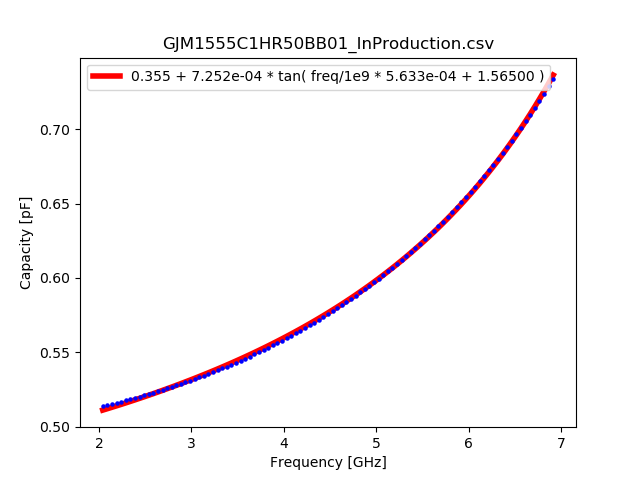
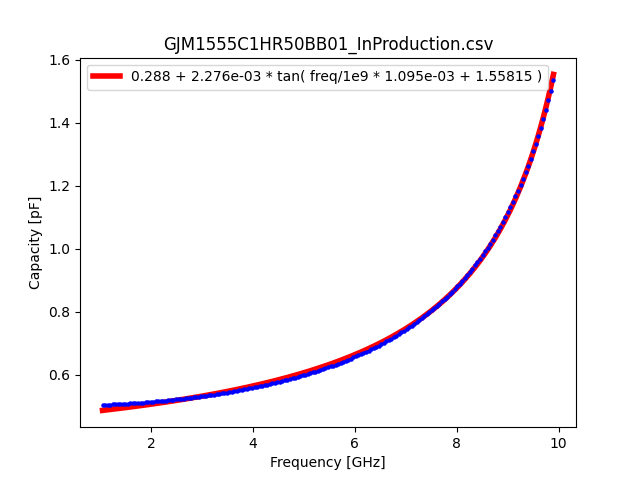
0.5pF

diff --git a/update_list.py b/update_list.py
@@ -20,7 +20,7 @@ if __name__ == "__main__":
         for csv in sorted(csvs):
 
             label = csv.split('csv/')[1]
-            cap, func, img_file = fitting(csv, 2e9, 7e9)
+            cap, func, img_file = fitting(csv, 1e9, 10e9)
 
             s = '| [{}]({}) | {:.1f}pF | `{}` |\n'.format(label, img_file, cap, func)
             f.write(s)

diff --git a/README.md b/README.md
@@ -5,31 +5,4 @@ note : use only simsurfing data
 
 | label | value | func |
 | ---   | ---   | --- |
-| [GJM1555C1H1R0BB01_InProduction.csv](img/GJM1555C1H1R0BB01_InProduction.png) | 1.0pF | `0.446 + 7.759e-03 * tan( freq/1e9 * 2.307e-03 + 1.55317 )` |
-| [GJM1555C1H1R1BB01_InProduction.csv](img/GJM1555C1H1R1BB01_InProduction.png) | 1.1pF | `0.508 + 7.715e-03 * tan( freq/1e9 * 2.033e-03 + 1.55464 )` |
-| [GJM1555C1H1R2BB01_InProduction.csv](img/GJM1555C1H1R2BB01_InProduction.png) | 1.2pF | `0.515 + 9.215e-03 * tan( freq/1e9 * 2.215e-03 + 1.55384 )` |
-| [GJM1555C1H1R3BB01_InProduction.csv](img/GJM1555C1H1R3BB01_InProduction.png) | 1.3pF | `0.516 + 1.648e-02 * tan( freq/1e9 * 3.652e-03 + 1.54382 )` |
-| [GJM1555C1H1R4BB01_InProduction.csv](img/GJM1555C1H1R4BB01_InProduction.png) | 1.4pF | `0.530 + 2.301e-02 * tan( freq/1e9 * 4.747e-03 + 1.53639 )` |
-| [GJM1555C1H1R5BB01_InProduction.csv](img/GJM1555C1H1R5BB01_InProduction.png) | 1.5pF | `0.500 + 5.973e-02 * tan( freq/1e9 * 1.150e-02 + 1.49012 )` |
-| [GJM1555C1H1R6BB01_InProduction.csv](img/GJM1555C1H1R6BB01_InProduction.png) | 1.6pF | `0.527 + 6.705e-02 * tan( freq/1e9 * 1.248e-02 + 1.48605 )` |
-| [GJM1555C1H1R7BB01_InProduction.csv](img/GJM1555C1H1R7BB01_InProduction.png) | 1.7pF | `0.737 + 6.072e-02 * tan( freq/1e9 * 1.229e-02 + 1.48867 )` |
-| [GJM1555C1H1R8BB01_InProduction.csv](img/GJM1555C1H1R8BB01_InProduction.png) | 1.8pF | `0.756 + 6.549e-02 * tan( freq/1e9 * 1.264e-02 + 1.48844 )` |
-| [GJM1555C1H1R9BB01_InProduction.csv](img/GJM1555C1H1R9BB01_InProduction.png) | 1.9pF | `0.774 + 6.380e-02 * tan( freq/1e9 * 1.179e-02 + 1.49580 )` |
-| [GJM1555C1H2R0BB01_InProduction.csv](img/GJM1555C1H2R0BB01_InProduction.png) | 2.0pF | `0.728 + 6.880e-02 * tan( freq/1e9 * 1.165e-02 + 1.49819 )` |
-| [GJM1555C1H2R1BB01_InProduction.csv](img/GJM1555C1H2R1BB01_InProduction.png) | 2.1pF | `0.754 + 8.282e-02 * tan( freq/1e9 * 1.360e-02 + 1.48801 )` |
-| [GJM1555C1H2R2BB01_InProduction.csv](img/GJM1555C1H2R2BB01_InProduction.png) | 2.2pF | `0.785 + 7.863e-02 * tan( freq/1e9 * 1.256e-02 + 1.49601 )` |
-| [GJM1555C1H2R3BB01_InProduction.csv](img/GJM1555C1H2R3BB01_InProduction.png) | 2.3pF | `1.099 + 6.886e-02 * tan( freq/1e9 * 1.348e-02 + 1.49406 )` |
-| [GJM1555C1H2R4BB01_InProduction.csv](img/GJM1555C1H2R4BB01_InProduction.png) | 2.4pF | `1.133 + 7.643e-02 * tan( freq/1e9 * 1.443e-02 + 1.49005 )` |
-| [GJM1555C1H2R5BB01_InProduction.csv](img/GJM1555C1H2R5BB01_InProduction.png) | 2.5pF | `1.160 + 7.962e-02 * tan( freq/1e9 * 1.450e-02 + 1.49096 )` |
-| [GJM1555C1HR10BB01_InProduction.csv](img/GJM1555C1HR10BB01_InProduction.png) | 0.1pF | `0.092 + 3.410e-05 * tan( freq/1e9 * 3.710e-04 + 1.56597 )` |
-| [GJM1555C1HR20BB01_InProduction.csv](img/GJM1555C1HR20BB01_InProduction.png) | 0.2pF | `0.170 + 2.088e-04 * tan( freq/1e9 * 6.529e-04 + 1.56287 )` |
-| [GJM1555C1HR30BB01_InProduction.csv](img/GJM1555C1HR30BB01_InProduction.png) | 0.3pF | `0.241 + 4.287e-04 * tan( freq/1e9 * 7.254e-04 + 1.56251 )` |
-| [GJM1555C1HR40BB01_InProduction.csv](img/GJM1555C1HR40BB01_InProduction.png) | 0.4pF | `0.292 + 3.791e-04 * tan( freq/1e9 * 3.748e-04 + 1.56677 )` |
-| [GJM1555C1HR50BB01_InProduction.csv](img/GJM1555C1HR50BB01_InProduction.png) | 0.5pF | `0.355 + 7.252e-04 * tan( freq/1e9 * 5.633e-04 + 1.56500 )` |
-| [GJM1555C1HR60BB01_InProduction.csv](img/GJM1555C1HR60BB01_InProduction.png) | 0.6pF | `0.397 + 6.110e-04 * tan( freq/1e9 * 3.578e-04 + 1.56728 )` |
-| [GJM1555C1HR70BB01_InProduction.csv](img/GJM1555C1HR70BB01_InProduction.png) | 0.7pF | `0.408 + 2.152e-03 * tan( freq/1e9 * 9.738e-04 + 1.56202 )` |
-| [GJM1555C1HR80BB01_InProduction.csv](img/GJM1555C1HR80BB01_InProduction.png) | 0.8pF | `0.435 + 2.388e-03 * tan( freq/1e9 * 9.192e-04 + 1.56289 )` |
-| [GJM1555C1HR90BB01_InProduction.csv](img/GJM1555C1HR90BB01_InProduction.png) | 0.9pF | `0.462 + 4.369e-03 * tan( freq/1e9 * 1.486e-03 + 1.55859 )` |
-| [GRM1554C1HR40BA01_NotRecommended.csv](img/GRM1554C1HR40BA01_NotRecommended.png) | 0.4pF | `0.277 + 4.051e-04 * tan( freq/1e9 * 3.735e-04 + 1.56699 )` |
-| [GRM1554C1HR60BA01_NotRecommended.csv](img/GRM1554C1HR60BA01_NotRecommended.png) | 0.6pF | `0.349 + 1.039e-03 * tan( freq/1e9 * 5.526e-04 + 1.56586 )` |
-| [GRM1554C1HR80BA01_NotRecommended.csv](img/GRM1554C1HR80BA01_NotRecommended.png) | 0.8pF | `0.390 + 3.855e-03 * tan( freq/1e9 * 1.466e-03 + 1.55916 )` |
+| [GJM1555C1HR50BB01_InProduction.csv](img/GJM1555C1HR50BB01_InProduction.png) | 0.5pF | `0.288 + 2.276e-03 * tan( freq/1e9 * 1.095e-03 + 1.55815 )` |
